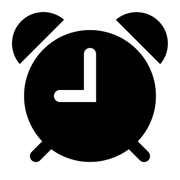
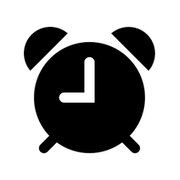
图标留白调整 + README 拆分为用户指南与开发文档
图标：
- 原图闹钟占画布 87.8%，顶到边缘显得偏大
- 改为内容占 74%（四周各留 13%），裁到内容边界后居中重排，留白精确对称
- 8 个尺寸全部重生成

文档：
- README.md 重写为面向用户的安装 / 使用指南，含完整课表 JSON 格式说明
  （字段表、Gist 托管步骤、导入注意事项）与快捷指令自动化配置
- 开发向内容（模块结构 / 工作原理 / 构建 / 踩坑 / 数据存储）移到 DEVELOPMENT.md
- workflow 的 paths-ignore 补上 DEVELOPMENT.md

Changed region(s): [[0.0556, 0.0556, 0.9444, 0.9167]]

diff --git a/DEVELOPMENT.md b/DEVELOPMENT.md
@@ -1,0 +1,110 @@
+# 响课 · 开发文档
+
+面向要改代码的人。**使用说明见 [README.md](README.md)**。
+
+## 当前进度
+
+| 能力 | 状态 |
+|---|---|
+| 读写系统闹钟（私有 API 路线） | ✅ 已验证可行 |
+| 模块化 App 骨架 | ✅ 已完成 |
+| 载入示例课表 + 一键应用 | ✅ 已完成 |
+| 课表编辑界面（增 / 删 / 改 / 提前量） | ✅ 已完成 |
+| 课表持久化（重启不丢） | ✅ 已完成 |
+| 远程 JSON 导入（URL） | ✅ 已完成 |
+| 快捷指令唤起（URL Scheme） | ✅ 已完成 |
+| 应用名 / 图标 | ✅ 已完成 |
+| 更优雅的重载方式（替代 SIGKILL） | ⬜ 待做 |
+
+## 模块结构
+
+低耦合设计，各模块只负责一件事，改一处不会牵连别处。
+
+| 文件 | 职责 |
+|---|---|
+| `CALPrivateAPI.h` | 私有 API 与路径常量集中声明 |
+| `CALTimetable.h/.m` | 课表模型 + 持久化（含存储目录探测） |
+| `CALAlarmStore.h/.m` | 系统闹钟读写引擎（不关心课表） |
+| `CALDaemonReloader.h/.m` | 让 mobiletimerd 重新加载数据（换方案只改这里） |
+| `CALScheduleEngine.h/.m` | 纯计算：课表 → 目标时间（无副作用） |
+| `CALApplier.h/.m` | 协调层，唯一知道完整流程的模块 |
+| `CALHomeViewController.h/.m` | 主界面：状态 + 应用 / 编辑 / 导入 / 示例 / 自检 / 清理 |
+| `CALTimetableViewController.h/.m` | 课表列表：按星期分组，增删改 + 提前量 |
+| `CALCourseEditorViewController.h/.m` | 单节课编辑表单（只收集输入并回调） |
+| `CALPaddedLabel.h/.m` | 带内边距的 UILabel（通用小组件） |
+| `main.m` | 入口与装配（导航栈 + URL Scheme 处理） |
+| `Resources/AppIcon*.png` | App 图标（8 个尺寸，构建时拷进 .app） |
+
+## 工作原理
+
+```
+课表 → 算次日第一节课时间 → 写 com.apple.mobiletimerd.plist → 重启 mobiletimerd → 系统生效
+```
+
+闹钟标题统一加前缀 `课表|`，因此清理时**只删自己创建的**，不会误伤手动设的闹钟。
+
+## 数据存在哪
+
+课表存在磁盘上，重启 App 不会丢。因为本 App 带 `no-sandbox` entitlement，
+`NSDocumentDirectory` 在无沙箱进程里指向 `/var/mobile/Documents`（**不保证可写**），
+所以存储目录是**运行时探测**出来的：
+
+1. 已经存在 `class-alarm-timetable.json` 的目录优先（避免换路径后读不到旧数据）
+2. 否则按候选顺序挑第一个**真正可写**的（写探针文件 + 读回校验，不只看文件是否存在）
+   - `NSDocumentDirectory`
+   - `/var/mobile/Library/Preferences`（闹钟 plist 就落在这里，实测可写）
+   - `/var/mobile/Documents`
+   - 临时目录（兜底，重启会丢）
+
+主页「存储自检」按钮会显示：当前目录、是否可写、文件大小、上次保存结果。
+保存失败会直接弹窗报原因，不会静默。
+
+## 构建
+
+本机是 Windows，没有 Xcode，编译走 GitHub Actions 的 macOS runner。
+直接用 clang 编译再手工组装 `.app`，不依赖 xcodegen / xcodebuild：
+
+```
+SOURCES=$(find Sources -name '*.m')
+xcrun --sdk iphoneos clang -arch arm64 -isysroot $SDK \
+    -miphoneos-version-min=16.0 -fobjc-arc -ISources \
+    -framework UIKit -framework Foundation -framework CoreGraphics -framework Security \
+    -o XiangKe.app/XiangKe $SOURCES
+
+cp Sources/Info.plist XiangKe.app/Info.plist
+cp Resources/AppIcon*.png XiangKe.app/
+ldid -Sentitlements.plist XiangKe.app/XiangKe
+zip -r XiangKe.ipa Payload
+```
+
+## 踩坑记录
+
+这些是实测踩过的，记下来免得重复：
+
+**编译 / 链接**
+- **xcodegen 生成的工程是 Xcode 16 格式**（objectVersion 77），runner 上的 Xcode 15.4 读不了 → 改用 clang 直接编译
+- **`CGRectGetMaxY` 这类 CG 函数是 extern 符号**（`CGRectMake` 是 `static inline`，不需要链接），
+  手写 clang 命令行必须显式加 `-framework CoreGraphics`，否则链接期报 `Undefined symbols: _CGRectGetMaxY`
+- **`errno` 是宏**（展开为 `(*__error())`），直接当 `appendFormat:` 的可变参数会报 `expected ']'`，必须先存进 int 变量
+- **block 内修改外层局部变量必须加 `__block`**
+
+**私有 API / 权限**
+- **`SecTaskRef` / `SecTaskCreateFromSelf`** 是私有 API，公开头文件未导出，需手动 `typedef` + `extern`
+- **`xpc_connection_create_mach_service`** 在 iOS 公开头文件里标记为 unavailable，须用 `dlsym` 取函数指针
+- **系统闹钟 XPC 服务名是 `com.apple.MobileTimer.alarmserver`**，不是 `mobiletimerd`
+- **改了 plist 后 mobiletimerd 不会自动重读**，必须重启它（用 SIGKILL，避免它退出时把内存状态写回覆盖数据）
+
+**文件系统**
+- **`no-sandbox` 下 `NSHomeDirectory()` 返回 `/var/mobile`**，不是 App 沙箱，别用它拼数据路径
+- **`no-sandbox` 下 `NSDocumentDirectory` 指向 `/var/mobile/Documents`，不保证可写**；
+  写文件后一定要**回读校验**，`writeToFile:` 返回 YES 也不代表真的落盘了
+
+**UI**
+- **iOS App 图标不能带 alpha 通道**，否则整张图渲染成黑块。源图若是透明底，必须先合成到实色背景再转 RGB
+- **图形不要顶到图标边缘**：内容占画布约 74%（四周各留 13%）视觉最稳
+- **UILabel 没有内边距**，文字会贴着圆角边缘，需要自己重写 `drawTextInRect:`
+- **编辑页不要用固定 `y` 起排**，包进导航栏后顶部会被遮 —— 用 `safeAreaInsets`
+
+**工具链**
+- 本仓库的 ObjC 静态检查脚本有个顺序坑：**必须先删字符串再删注释**，
+  否则 `@"https://..."` 里的 `//` 会被当注释吃掉，导致括号计数误报
